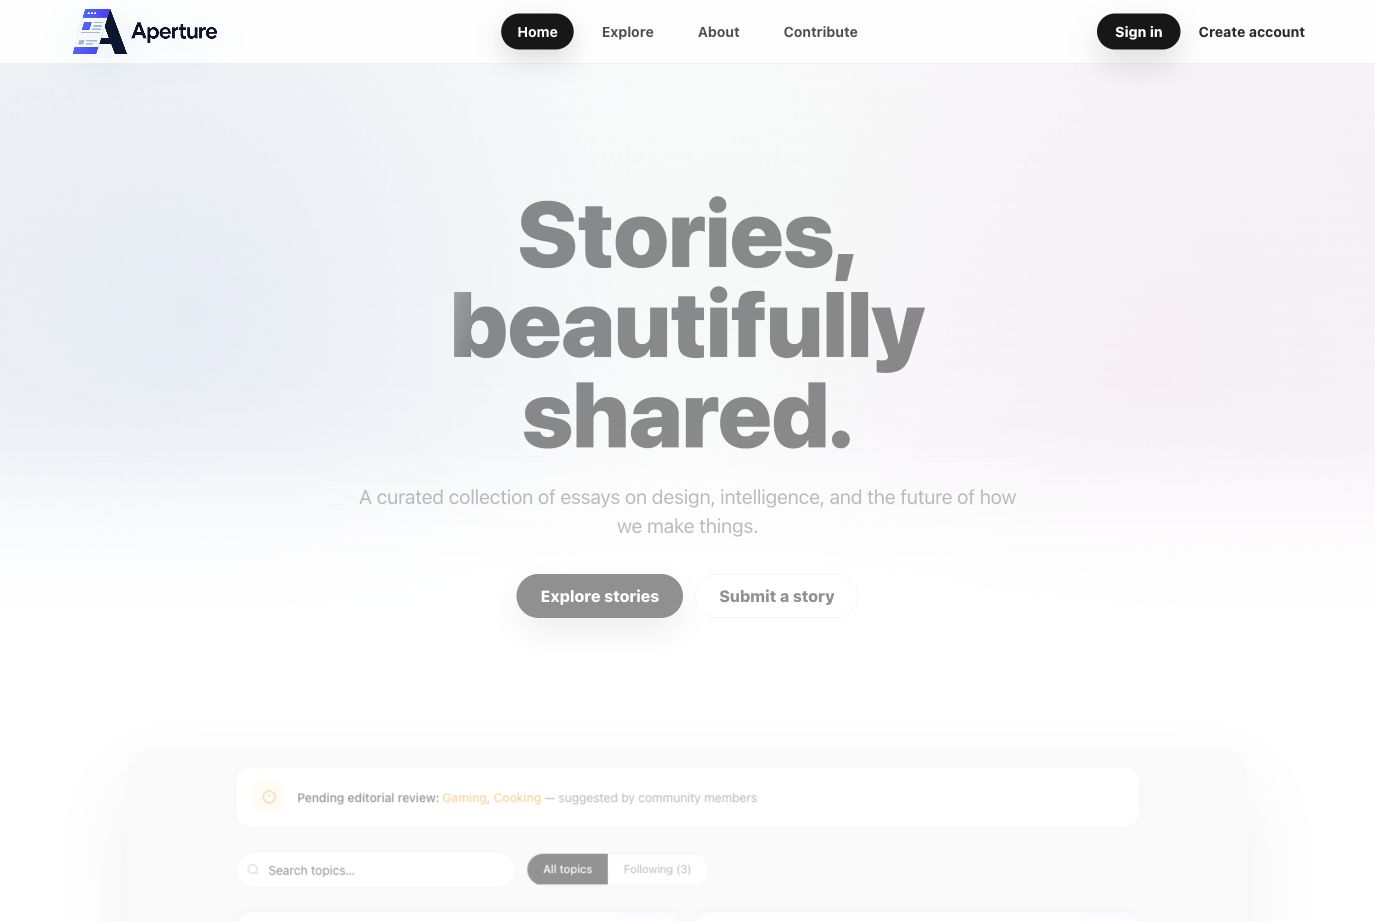
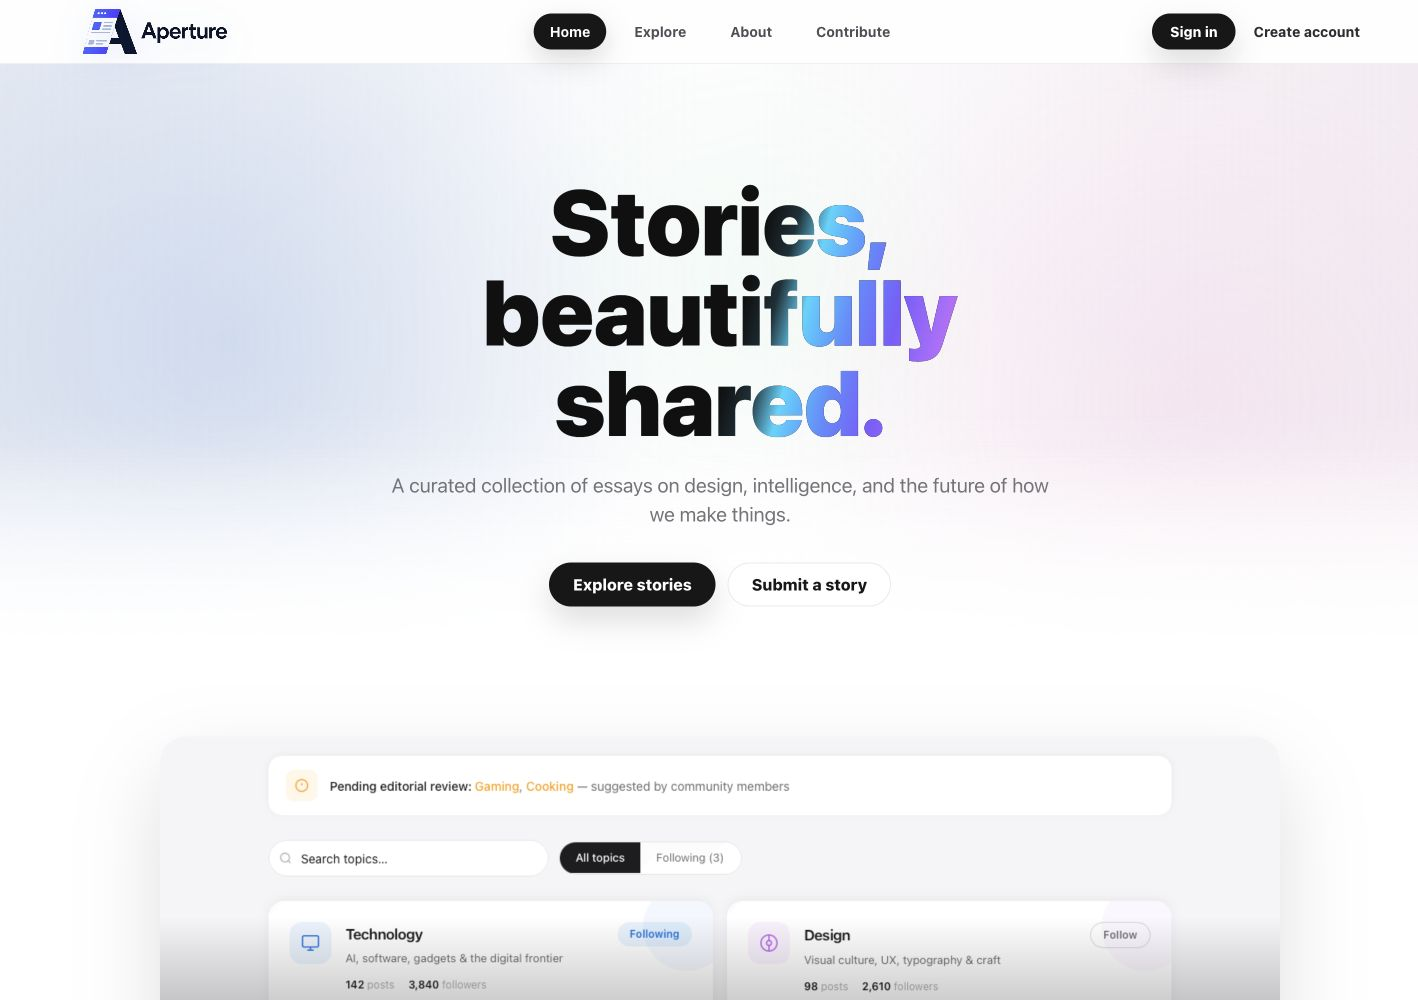
Updated the README file to better describe the project

diff --git a/README.md b/README.md
@@ -1,79 +1,97 @@
-# BlogPlatform / Aperture
+# BlogPlatform
 
-WordPress блог платформа со custom Blocksy child theme и workflow за автори, уреднички преглед, категории, реакции и frontend објавување на текстови.
+Custom WordPress проект за **Aperture**: мала уредничка блог платформа со frontend пишување, модерирани придонеси и авторски dashboard.
 
-## Screenshots
+Репото го чува проектниот код што е потребен за да се разбере и продолжи темата: child theme, workflow hooks, локални assets, generated Blocksy CSS што го држи изгледот, пример конфигурација и screenshots од главните екрани.
 
-### Desktop
+## Што има во проектот
 
-![Aperture desktop homepage](docs/screenshots/home-desktop.jpg)
+- `app/public/wp-content/themes/blocksy-child/` - custom child theme со templates, styles, scripts и brand assets за Aperture.
+- `app/public/wp-content/mu-plugins/aperture-workflow.php` - workflow слој за plugin bootstrap, frontend submissions, moderation, dashboard податоци и demo content.
+- `app/public/wp-content/uploads/blocksy/css/global.css` - generated Blocksy CSS потребен за тековниот layout.
+- `app/public/wp-config.example.php` - пример WordPress конфигурација без локални credentials.
+- `docs/screenshots/` - визуелен преглед на главните screens.
 
-### Mobile
+## Како е врзан кодот
 
-![Aperture mobile homepage](docs/screenshots/home-mobile.jpg)
+Child theme-от го рендерира јавниот дел на платформата: home, explore, topics, article, auth и contributor screens. Делот што не е чист template е во `aperture-workflow.php`: креирање на потребните pages, demo seed, frontend submit, moderation status, category suggestions и бројки за dashboard.
 
-## Што содржи проектот
+Posts, categories и users остануваат native WordPress content, за да може платформата да се користи и од admin без посебен CMS слој. Contributor flow-от користи WordPress users/capabilities, а frontend формите само го пакуваат workflow-от во попријателски screens.
 
-- `app/public/wp-content/themes/blocksy-child/` - custom child theme за Aperture UI.
-- `app/public/wp-content/mu-plugins/aperture-workflow.php` - workflow логика за frontend submit, plugin bootstrap и editorial features.
-- `app/public/wp-content/uploads/blocksy/css/global.css` - генериран Blocksy CSS потребен за тековниот visual style.
-- `docs/screenshots/` - screenshots од тековниот изглед на сајтот.
+## Екрани
 
-## Главни функционалности
+Screenshots се од локална WordPress инсталација со Blocksy parent theme и потребните plugins активни.
 
-- Editorial homepage со hero, topics и featured content.
-- Frontend страници за `Write`, `My content`, `Explore`, `Topics`, `About`, `Sign in`, `Register` и `Contributors`.
-- Автоматско креирање/врзување на платформските страници преку child theme.
-- Workflow за submit/draft на постови од frontend.
-- Поддршка за PublishPress, WP User Frontend, WP ULike, Post Views Counter, Antispam Bee и role/capability management.
+| Екран | Кратко објаснување |
+| --- | --- |
+| Home | Почетна страна со editorial hero, повик за читање/пишување и preview од теми и stories. |
+| Explore | Каталог за stories со search, category filters и grid од објави. |
+| Topics | Преглед на категории, статус на предложени теми и можност за следење/предлагање. |
+| Article | Single post template со cover, metadata, reading actions и comments area. |
+| Contribute | Logged-in writer view за поднесување essay или предлагање нова категорија. |
+| My content | Contributor dashboard за сопствени posts, review status, comments и suggestions. |
+| Sign in / Create account | Custom authentication screens за contributor пристап. |
+| About / Contributors | Статични project pages за платформата и листа на автори. |
+| Mobile home / explore | Responsive преглед за header, hero, search и browsing flow на тесен екран. |
+
+<table>
+  <tr>
+    <td><strong>Home</strong><br><img src="docs/screenshots/home-desktop.jpg" alt="Aperture home screen" width="420"></td>
+    <td><strong>Explore</strong><br><img src="docs/screenshots/explore.jpg" alt="Explore screen" width="420"></td>
+  </tr>
+  <tr>
+    <td><strong>Topics</strong><br><img src="docs/screenshots/topics.jpg" alt="Topics screen" width="420"></td>
+    <td><strong>Article</strong><br><img src="docs/screenshots/article.jpg" alt="Article screen" width="420"></td>
+  </tr>
+  <tr>
+    <td><strong>Contribute</strong><br><img src="docs/screenshots/contribute.jpg" alt="Contribute screen" width="420"></td>
+    <td><strong>My content</strong><br><img src="docs/screenshots/my-content.jpg" alt="My content dashboard" width="420"></td>
+  </tr>
+  <tr>
+    <td><strong>Sign in</strong><br><img src="docs/screenshots/sign-in.jpg" alt="Sign in screen" width="420"></td>
+    <td><strong>Create account</strong><br><img src="docs/screenshots/create-account.jpg" alt="Create account screen" width="420"></td>
+  </tr>
+  <tr>
+    <td><strong>About</strong><br><img src="docs/screenshots/about.jpg" alt="About screen" width="420"></td>
+    <td><strong>Contributors</strong><br><img src="docs/screenshots/contributors.jpg" alt="Contributors screen" width="420"></td>
+  </tr>
+  <tr>
+    <td><strong>Mobile home</strong><br><img src="docs/screenshots/home-mobile.jpg" alt="Mobile home screen" width="180"></td>
+    <td><strong>Mobile explore</strong><br><img src="docs/screenshots/mobile-explore.jpg" alt="Mobile explore screen" width="180"></td>
+  </tr>
+</table>
+
+## Белешки за работа
+
+- `functions.php` ги sync-ира основните pages и menu items кога верзијата на темата се менува.
+- Page templates се во `page-templates/`; slug-овите таму се очекувани и од workflow кодот.
+- Frontend submit формата креира contributor content што оди во review пред publish.
+- Screenshots се дел од документацијата. Ако се менува layout, освежи ги заедно со README.
 
 ## Локално пуштање
 
-Проектот е подготвен за Local WP.
+Проектот е работен во Local WP.
 
-1. Клонирај го репото во Local Sites директориум или отвори го постоечкиот Local WP site.
-2. Во Local WP стартувај го сајтот `BlogPlatform`.
-3. Локалниот домен од тековната инсталација е `http://aprture.issok/`.
-4. Ако креираш нова околина, копирај `app/public/wp-config.example.php` во `app/public/wp-config.php` и внеси ги твоите локални DB вредности.
-5. Импортирај база од приватен/local backup. Базата намерно не е дел од GitHub репото.
-6. Инсталирај WordPress core, parent темата `Blocksy` и plugin зависностите наведени подолу.
-7. Во WordPress активирај ја темата `Aperture - Premium Blog Platform Child` ако не е активна.
+1. Клонирај го репото.
+2. Во Local WP креирај или отвори WordPress site за проектот.
+3. Постави WordPress core во `app/public/`.
+4. Инсталирај го parent theme-от `Blocksy`.
+5. Инсталирај ги plugin зависностите од листата подолу.
+6. Копирај `app/public/wp-config.example.php` во `app/public/wp-config.php` и внеси локални DB податоци.
+7. Импортирај database backup за pages, posts, users и plugin settings.
+8. Активирај ја child темата `Aperture - Premium Blog Platform Child`.
 
-## Dependencies што не се commit-уваат
+## WordPress dependencies
 
-Овие работи се потребни во WordPress околината, но не се дел од Git репото затоа што се third-party/runtime код:
+Овие plugins/themes треба да постојат во локалната WordPress околина:
 
-- WordPress core.
-- Parent theme: `Blocksy`.
-- Plugins: `PublishPress Planner`, `Antispam Bee`, `Blocksy Companion`, `WP User Frontend`, `Remove Dashboard Access`, `Post Views Counter`, `WP ULike`, `PublishPress Capabilities`.
-
-## Што намерно не се commit-ува
-
-Ова репо не ги верзионира локалните и чувствителни фајлови:
-
-- WordPress core (`wp-admin`, `wp-includes`, root WordPress PHP files).
-- Third-party parent themes и plugins.
-- `app/public/wp-config.php` - содржи DB credentials и WordPress salts.
-- `app/sql/` и `*.sql` - database dumps може да содржат корисници, лозинки, emails и приватна содржина.
-- `app/public/wp-content/uploads/` - upload/media library е runtime content и лесно расте во големина.
-- `logs/`, `conf/`, `app/.env*` - Local WP runtime, machine-specific конфигурации и логови.
-
-Исклучок е `app/public/wp-content/uploads/blocksy/css/global.css`, затоа што Blocksy го генерира овој CSS и е потребен за тековниот изглед.
-
-## GitHub remote
-
-Remote репото:
-
-```bash
[email redacted]:AndrejT03/blogplatform.git
-```
-
-HTTPS алтернатива:
-
-```bash
-https://github.com/AndrejT03/blogplatform.git
-```
-
-## Забелешка
-
-Пред deployment на жив сервер, постави нови WordPress salts, продукциски DB credentials и свеж database export/import процес. Реалната `wp-config.php` никогаш не треба да оди на GitHub.
+- WordPress core
+- Blocksy
+- Blocksy Companion
+- PublishPress Planner
+- PublishPress Capabilities
+- WP User Frontend
+- WP ULike
+- Post Views Counter
+- Antispam Bee
+- Remove Dashboard Access